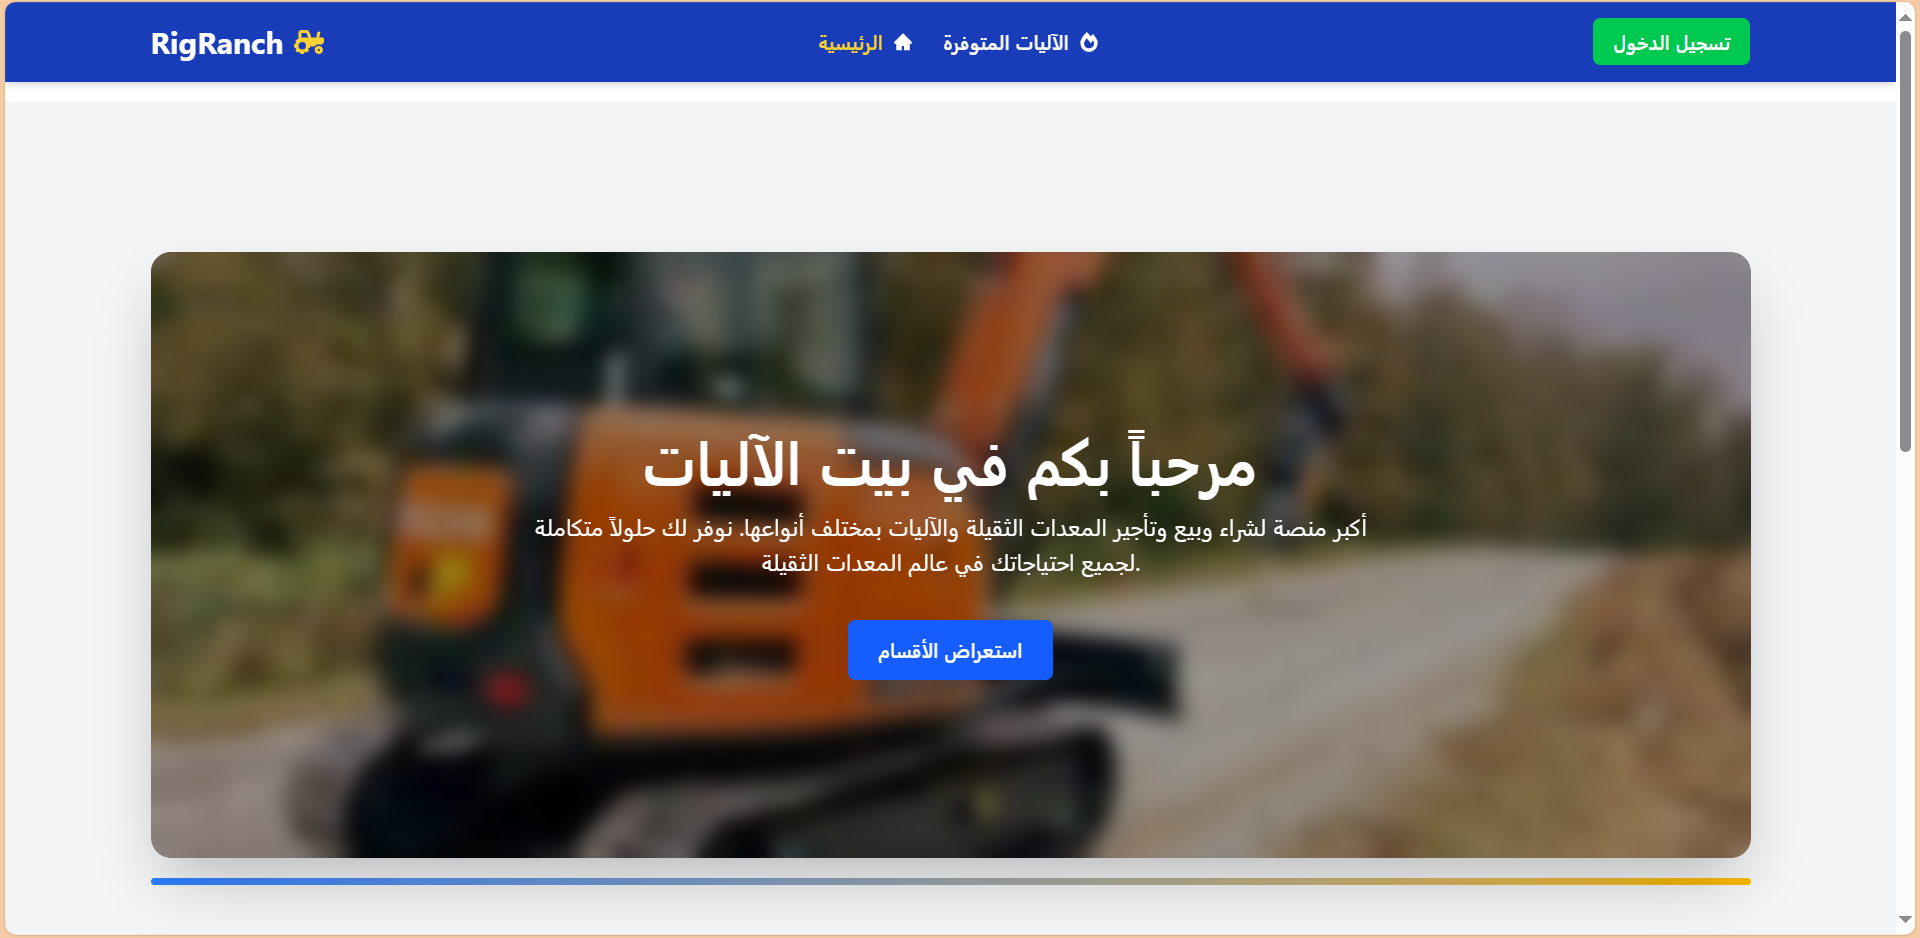
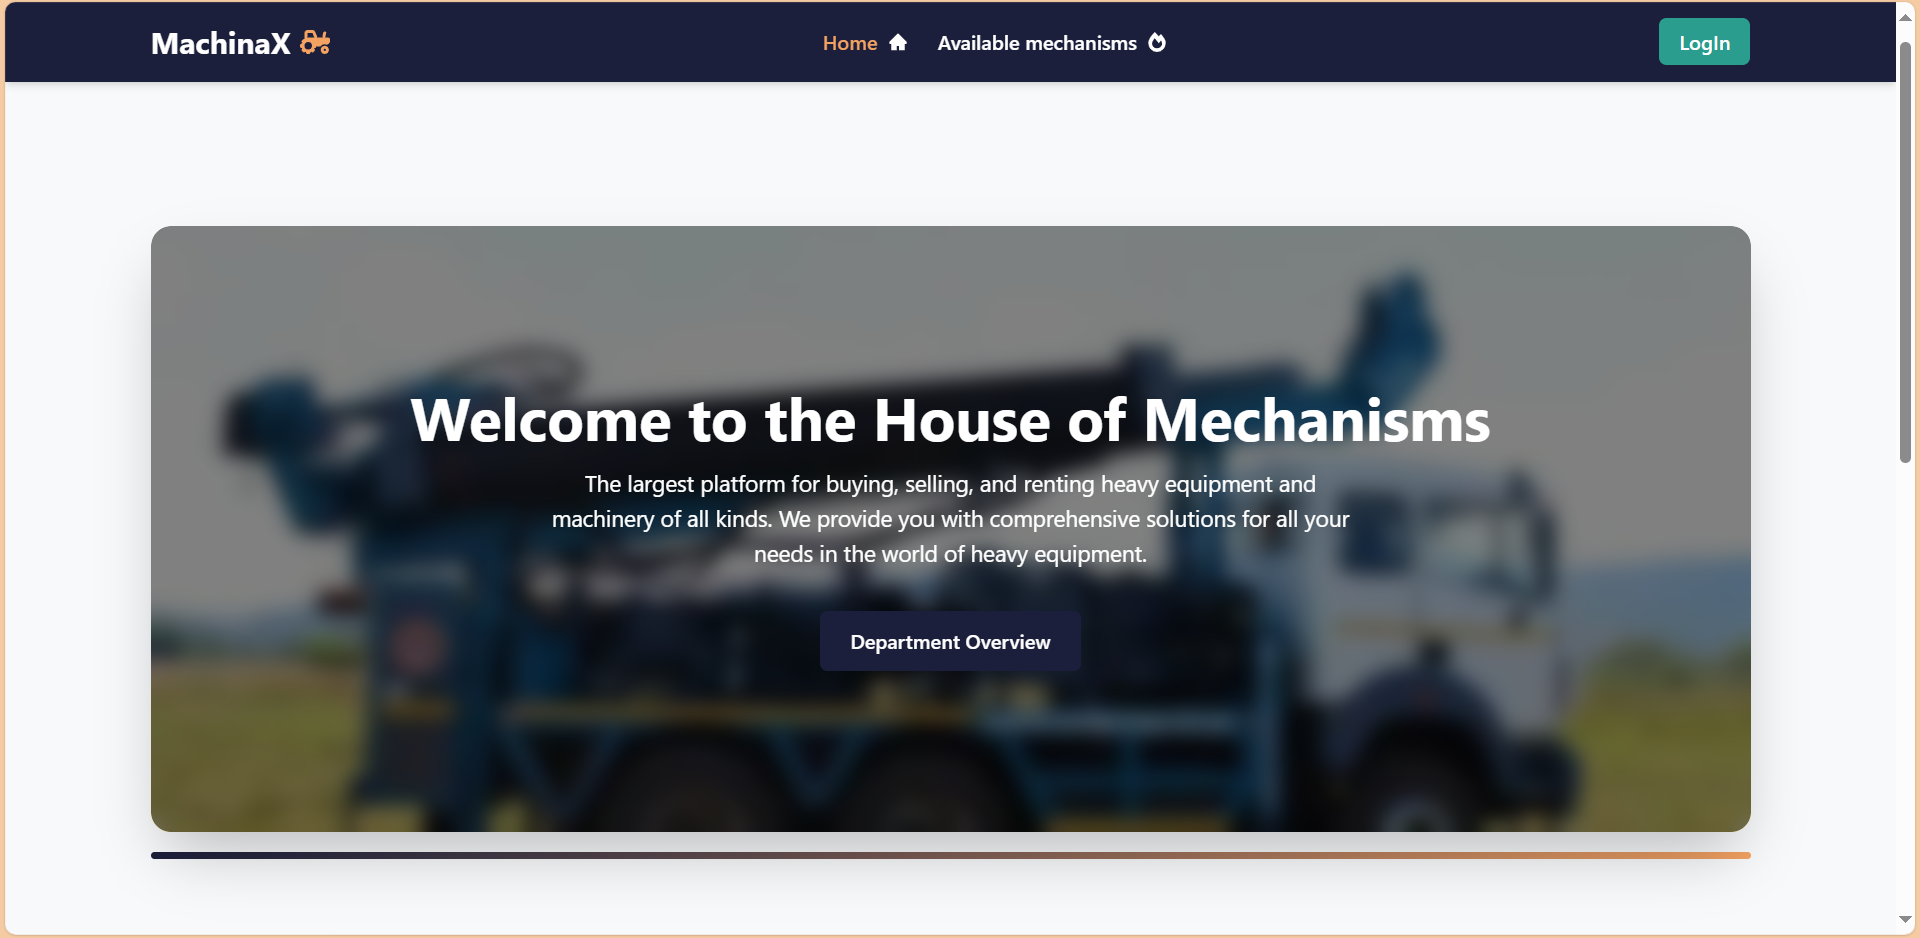
some data

diff --git a/src/component/portfolio/data.js b/src/component/portfolio/data.js
@@ -1,8 +1,14 @@
 
 export const items = [
-    { id: 1, img: "/Pencil.png", title: "Pencil Blog", type: "(Full-Sack App)", desc: "The pencil blog allows the user to browse articles and customize browsing based on a specific category and also enables him to admire, comment, delete and modify the comment in addition to publishing and browsing his personal file and amending his personal information This application was built with MERN Stack technologies", link: "/" },
+    { id: 1,
+     img: "/Pencil.png",
+     title: "Pencil Blog", 
+     type: "(Full-Sack App)", 
+     desc: "The pencil blog allows the user to browse articles and customize browsing based on a specific category and also enables him to admire, comment, delete and modify the comment in addition to publishing and browsing his personal file and amending his personal information This application was built with MERN Stack technologies", 
+     link: "/" 
+    },
     { id: 2, img: "/delevAPP.png", title: "delivery APP", type: "(Full-Sack App)", desc: "The delivery app is a complete system provided to the app owner, the user, and the driver.In the driver app, the user can log in as a driver to see available orders. He can accept the order so that the customer can track the driver's location on a map in real time. The driver also receives notifications of new orders.The user creates the order and specifies its location on the map in real time. The user receives a notification when their order is accepted and when the driver approaches the location.", link: "/" },
-    { id: 3, img: "/hope.png", title: "Hope", type: "(Full-Sack App)", desc: "The Hope Project is a charitable organization that addresses numerous humanitarian issues, including water, famine, and disease. Users can browse and donate to these issues through an electronic wallet I created for the project. Users submit a wallet recharge request to the administrator, and when the administrator approves the request, the wallet is recharged. There is also a section for articles to keep up with world events. A dedicated control panel has been created for the administrator, giving them full control over issues, articles, and user wallet recharge requests.", link: "/" },
-    { id: 4, img: "/machin.png", title: "Rig Ranch", type: "(Front end App)", desc: "The Machine House is a platform where you can buy and sell various types of machines (cars, agricultural machinery, excavation equipment, etc.).Users can post a machine for sale, reserve a machine, view reserved machines, cancel a reservation, and view their own posted machines in their profile. They can also view details of who has reserved a machine.I developed the project interfaces and linked them to Django's Endpoint API.", link: "/" },
+    { id: 3, img: "/hope.png", title: "Noah", type: "(Full-Sack App)", desc: "The Noah Project is a charitable organization that addresses numerous humanitarian issues, including water, famine, and disease. Users can browse and donate to these issues through an electronic wallet I created for the project. Users submit a wallet recharge request to the administrator, and when the administrator approves the request, the wallet is recharged. There is also a section for articles to keep up with world events. A dedicated control panel has been created for the administrator, giving them full control over issues, articles, and user wallet recharge requests.", link: "/" },
+    { id: 4, img: "/machin.png", title: "MachinaX", type: "(Front end App)", desc: "The MachinaX is a platform where you can buy and sell various types of machines (cars, agricultural machinery, excavation equipment, etc.).Users can post a machine for sale, reserve a machine, view reserved machines, cancel a reservation, and view their own posted machines in their profile. They can also view details of who has reserved a machine.I developed the project interfaces and linked them to Django's Endpoint API.", link: "/" },
     { id: 5, img: "/theBlog.png", title: "The Blog", type: "(Front end App)", desc: "The blog is a front-end application for displaying articles. I developed it to rely on technologies like Redux Toolkit and the ability to use night and light modes as well.", link: "/" },
 ];
